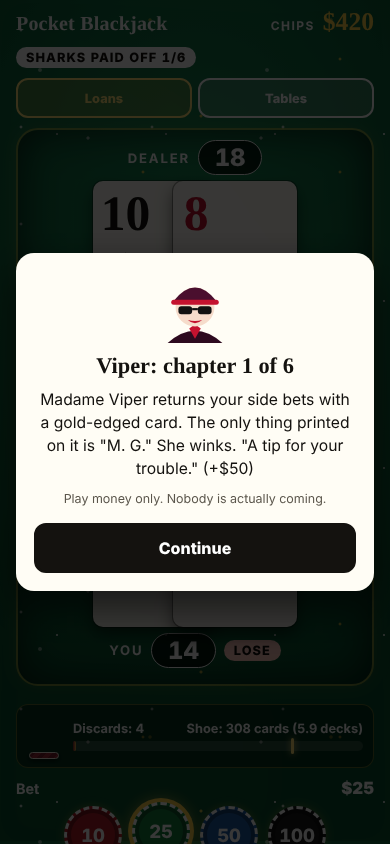
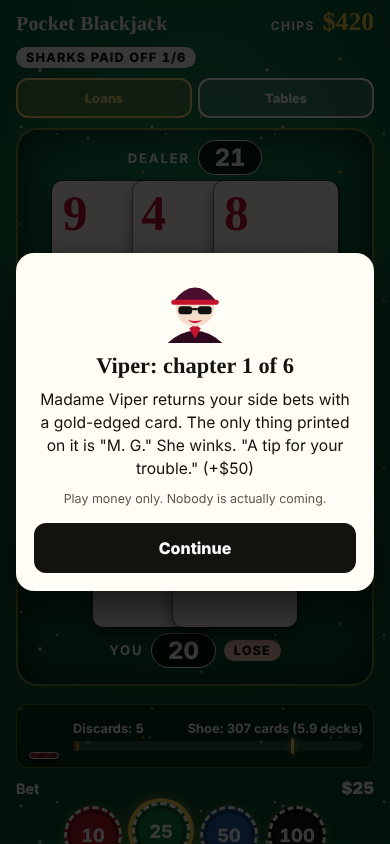
Add Shark's Wheel table: 40-slice wheel with 25x jackpot and double-or-nothing coin flip
Claude-Session: https://claude.ai/code/session_01TBic4fJHueRrgbEwivbnJZ

diff --git a/blackjack.html b/blackjack.html
@@ -292,6 +292,25 @@ body.hr { --felt: #0b0a22; --felt-hi: #25206a; --spk: rgba(255, 210, 74, 0.9); -
 .vdealer, .vpicks { display: flex; flex-direction: column; align-items: center; gap: 4px; color: #fff; }
 .vpicks > div { display: flex; gap: 4px; }
 .vdealer small, .vpicks small { font-size: 0.7rem; font-weight: 800; letter-spacing: 0.06em; color: #ffe27a; text-transform: uppercase; }
+.wheel { display: flex; flex-direction: column; gap: 10px; padding: 12px 16px; overflow: auto; }
+.wtabs { display: flex; gap: 8px; }
+.wtabs button { flex: 1; min-height: 44px; border-radius: 12px; border: 2px solid var(--line); background: rgba(0, 0, 0, 0.3); font-weight: 800; }
+.wtabs button[aria-pressed="true"] { border-color: var(--brass); color: var(--brass); background: rgba(0, 0, 0, 0.5); }
+.wstage { position: relative; width: min(78vw, 300px); aspect-ratio: 1; margin: 14px auto 6px; }
+.wptr { position: absolute; left: 50%; top: -12px; width: 0; height: 0; margin-left: -12px; border-left: 12px solid transparent; border-right: 12px solid transparent; border-top: 26px solid var(--brass); z-index: 3; filter: drop-shadow(0 2px 2px rgba(0, 0, 0, 0.6)); }
+.wdisc { position: absolute; inset: 0; border-radius: 50%; border: 6px solid var(--brass); box-shadow: 0 6px 18px rgba(0, 0, 0, 0.55); transition: transform 4.2s cubic-bezier(0.12, 0.6, 0.12, 1); }
+.whub { position: absolute; left: 50%; top: 50%; width: 22%; height: 22%; transform: translate(-50%, -50%); border-radius: 50%; background: radial-gradient(circle at 35% 30%, #fff3b0, var(--brass) 55%, #9a7410); box-shadow: 0 0 0 3px rgba(0, 0, 0, 0.5); }
+.wcoin { position: absolute; inset: 8%; transform-style: preserve-3d; transition: transform 1.8s cubic-bezier(0.2, 0.7, 0.2, 1); }
+.wcoin[hidden] { display: none; }
+.wface { position: absolute; inset: 0; border-radius: 50%; display: flex; align-items: center; justify-content: center; font-family: var(--display); font-weight: 900; font-size: 1.7rem; backface-visibility: hidden; -webkit-backface-visibility: hidden; border: 6px solid rgba(0, 0, 0, 0.35); }
+.wfront { background: radial-gradient(circle at 35% 30%, #fff3b0, var(--brass) 60%, #9a7410); color: #3a2a00; }
+.wback { background: radial-gradient(circle at 35% 30%, #5a6370, #20252c 70%); color: #f3b0b0; transform: rotateY(180deg); }
+.wheel.flip .wdisc, .wheel.flip .wptr { display: none; }
+.wbig { margin: 0; min-height: 1.6em; text-align: center; font-family: var(--display); font-weight: 900; font-size: 1.5rem; color: var(--brass); }
+.wbig.lose { color: var(--lose); }
+.wpr { display: flex; justify-content: space-between; gap: 8px; font-size: 0.9rem; padding: 2px 0; }
+.wpr i { display: inline-block; width: 12px; height: 12px; border-radius: 3px; margin-right: 8px; vertical-align: -1px; }
+.wpr.hit { color: var(--brass); font-weight: 800; }
 .vpay { display: grid; gap: 1px; padding: 6px 8px; border-radius: 12px; background: rgba(0, 0, 0, 0.35); border: 1px solid rgba(255, 210, 74, 0.45); }
 .vpay div { display: flex; justify-content: space-between; align-items: center; gap: 8px; color: #fff; padding: 3px 6px; border-radius: 6px; }
 .vpay span { display: flex; flex-direction: column; line-height: 1.15; }
@@ -490,6 +509,33 @@ body::before { filter: brightness(var(--dimf, 1)); }
       <p>Stuck? Press <b>Hint</b> any time during step 2 and the game shows the best cards to keep.</p>
     </details>
   </section>
+
+  <section class="wheel" id="wheel" hidden>
+    <div class="dhead"><h2>Shark's Wheel</h2><p class="dsub" id="wSub">Pick a bet, then spin.</p></div>
+    <div class="wtabs" role="group" aria-label="Game">
+      <button type="button" id="wTabWheel" aria-pressed="true">Wheel</button>
+      <button type="button" id="wTabFlip" aria-pressed="false">Double or nothing</button>
+    </div>
+    <div class="wstage" id="wStage">
+      <div class="wptr" aria-hidden="true"></div>
+      <div class="wdisc" id="wDisc" aria-hidden="true"><div class="whub"></div></div>
+      <div class="wcoin" id="wCoin" hidden aria-hidden="true"><div class="wface wfront">YOU</div><div class="wface wback">SHARK</div></div>
+    </div>
+    <p class="wbig" id="wBig" role="status" aria-live="polite"></p>
+    <p class="msg dmsg" id="wMsg"></p>
+    <div class="betline"><span>Bet</span><b id="wWager">$25</b></div>
+    <div class="chips" id="wChips" role="group" aria-label="Bet size"></div>
+    <div class="sides"><button class="sidebtn" id="wAll" type="button">All in</button></div>
+    <button class="primary" id="wGo" type="button">Spin</button>
+    <div class="vpay" id="wPay"></div>
+    <details class="pay">
+      <summary>How the wheel works</summary>
+      <p><b>Wheel:</b> 40 slices. Most are a bust, a few pay 1x to 3x your bet back, and one slice pays 25x. The wheel returns about 95 cents on the dollar over time, so it is a long shot.</p>
+      <p><b>Double or nothing:</b> a coin flip you win 48% of the time. A win pays double your bet. A small edge for the house, and the quickest way to clear a loan or lose it all.</p>
+      <p>Press <b>All in</b> to bet every chip you have. Same chips and same loan sharks as every other table. Interest still ticks on every spin.</p>
+    </details>
+  </section>
+
 
   <section class="controls" id="bjControls">
     <div class="betline"><span id="wlabel">Bet</span><button class="stakesbtn" id="stakesBtn" hidden>Raise stakes</button><b id="wager">$25</b></div>
@@ -976,7 +1022,7 @@ body::before { filter: brightness(var(--dimf, 1)); }
     var wsp = $('wisps'); wsp.style.opacity = room === 'high' || loans < 2 ? '0' : '1';
     Array.prototype.forEach.call(wsp.children, function (w, k) { w.style.display = k < loans ? '' : 'none'; });
     document.body.classList.toggle('hr', room === 'high');
-    $('title').textContent = game === 'derby' ? 'Roach Derby' : game === 'vp' ? 'Jacks or Better' : (room === 'high' ? 'High-Roller Blackjack' : 'Pocket Blackjack');
+    $('title').textContent = game === 'derby' ? 'Roach Derby' : game === 'vp' ? 'Jacks or Better' : game === 'wheel' ? "Shark's Wheel" : (room === 'high' ? 'High-Roller Blackjack' : 'Pocket Blackjack');
   }
 
   function sleep(ms) { return new Promise(function (r) { setTimeout(r, ms); }); }
@@ -1412,12 +1458,107 @@ body::before { filter: brightness(var(--dimf, 1)); }
     return true;
   }
 
+
+  /* ---------- Shark's Wheel ---------- */
+  var WSL = 40, WSLICE = (function () {
+    var a = []; for (var q = 0; q < WSL; q++) a.push(0);
+    a[0] = 25; a[20] = 3; [7, 19, 33].forEach(function (x) { a[x] = 2; }); [4, 12, 27, 36].forEach(function (x) { a[x] = 1; });
+    return a;
+  })();
+  var WCOL = { 0: ['#4a1620', '#2f0d14'], 1: ['#2c6fbf'], 2: ['#23a05a'], 3: ['#e0a21a'], 25: ['#b04ae0'] };
+  var WNAME = { 0: 'Bust', 1: 'Bet back', 2: 'Double', 3: 'Triple', 25: 'JACKPOT' };
+  var FLIP_P = 0.48;
+  var wheel = { mode: 'wheel', busy: false, rot: 0, crot: 0, msg: '', cls: '', big: '', bigCls: '', sig: '', built: false, hit: -1 };
+  function wheelBuild() {
+    var stops = [], k, c;
+    for (k = 0; k < WSL; k++) { c = WCOL[WSLICE[k]]; c = c[k % c.length]; stops.push(c + ' ' + (k * 360 / WSL) + 'deg ' + ((k + 1) * 360 / WSL) + 'deg'); }
+    $('wDisc').style.background = 'conic-gradient(' + stops.join(',') + ')';
+    var pay = $('wPay'), cnt = {};
+    WSLICE.forEach(function (m) { cnt[m] = (cnt[m] || 0) + 1; });
+    pay.textContent = '';
+    [25, 3, 2, 1, 0].forEach(function (m) {
+      var d = document.createElement('div'); d.className = 'wpr'; d.dataset.m = String(m);
+      var l = document.createElement('span'), r = document.createElement('b'), sw = document.createElement('i');
+      sw.style.background = WCOL[m][0]; l.appendChild(sw); l.appendChild(document.createTextNode(WNAME[m] + (m ? ' (' + m + 'x)' : '')));
+      r.textContent = cnt[m] + ' of ' + WSL + ' (' + (cnt[m] * 100 / WSL).toFixed(1).replace('.0', '') + '%)';
+      d.appendChild(l); d.appendChild(r); pay.appendChild(d);
+    });
+    wheel.built = true;
+  }
+  function renderWheel() {
+    if (!wheel.built) wheelBuild();
+    var flip = wheel.mode === 'flip', betting = (phase === 'bet' || phase === 'done') && !wheel.busy;
+    $('wheel').classList.toggle('flip', flip);
+    $('wDisc').hidden = flip; $('wCoin').hidden = !flip;
+    $('wTabWheel').setAttribute('aria-pressed', String(!flip)); $('wTabFlip').setAttribute('aria-pressed', String(flip));
+    $('wTabWheel').disabled = !betting; $('wTabFlip').disabled = !betting;
+    $('wPay').hidden = flip;
+    $('wSub').textContent = wheel.busy ? (flip ? 'Flipping…' : 'Spinning…') : (flip ? 'Double your bet 48% of the time, or lose it.' : 'Pick a bet, then spin. One slice pays 25x.');
+    $('wBig').textContent = wheel.big; $('wBig').className = 'wbig' + (wheel.bigCls ? ' ' + wheel.bigCls : '');
+    var m = $('wMsg'); m.textContent = wheel.msg; m.className = 'msg dmsg' + (wheel.cls ? ' ' + wheel.cls : '');
+    $('wWager').textContent = '$' + bet;
+    var box = $('wChips'), sg = CHIPS.join(',');
+    if (wheel.sig !== sg) {
+      wheel.sig = sg; box.textContent = '';
+      CHIPS.slice().reverse().forEach(function (v) {
+        var b = document.createElement('button'); b.type = 'button'; b.className = 'chip'; b.dataset.v = String(v); b.textContent = v >= 1000 ? (v / 1000) + 'K' : String(v);
+        b.addEventListener('click', function () { if (wheel.busy || (phase !== 'bet' && phase !== 'done')) return; bet = v; render(); });
+        box.appendChild(b);
+      });
+    }
+    Array.prototype.forEach.call(box.children, function (b) { var v = parseInt(b.dataset.v, 10); b.disabled = !betting || v > bank; b.setAttribute('aria-pressed', String(v === bet)); });
+    $('wAll').disabled = !betting || bank < MIN; $('wAll').textContent = 'All in: $' + bank;
+    var go = $('wGo'); go.disabled = !betting || bank < bet || bank < MIN;
+    go.textContent = wheel.busy ? (flip ? 'Flipping…' : 'Spinning…') : (flip ? 'Flip for $' + bet : 'Spin for $' + bet);
+    Array.prototype.forEach.call($('wPay').children, function (r) { r.className = 'wpr' + (wheel.hit === parseInt(r.dataset.m, 10) ? ' hit' : ''); });
+  }
+  async function wheelGo() {
+    if (wheel.busy || (phase !== 'bet' && phase !== 'done') || bank < bet || bank < MIN || bet < MIN) return;
+    if (checkStakes()) return;
+    var flip = wheel.mode === 'flip', stake = bet, i, mult, won;
+    wheel.busy = true; phase = 'busy'; wheel.hit = -1; wheel.big = ''; wheel.bigCls = '';
+    bank -= stake; save();
+    var notes = tickDebts(); blindNext = false; save();
+    wheel.msg = notes.length ? notes.join(' \u00b7 ') : ''; wheel.cls = '';
+    render();
+    if (flip) {
+      won = Math.random() < FLIP_P; mult = won ? 2 : 0;
+      wheel.crot = (Math.floor(wheel.crot / 360) + 5) * 360 + (won ? 0 : 180);
+      var coin = $('wCoin'); coin.style.transform = 'rotateY(' + wheel.crot + 'deg)';
+      await sleep(2000);
+    } else {
+      i = Math.floor(Math.random() * WSL); mult = WSLICE[i];
+      var centre = i * 360 / WSL + 360 / WSL / 2, jit = (Math.random() - 0.5) * (360 / WSL) * 0.6;
+      wheel.rot = (Math.floor(wheel.rot / 360) + 6) * 360 + (360 - centre) + jit;
+      $('wDisc').style.transform = 'rotate(' + wheel.rot + 'deg)';
+      await sleep(4500);
+    }
+    var back = stake * mult, net = back - stake;
+    bank += back; wheel.hit = flip ? -1 : mult; wheel.busy = false; phase = 'done';
+    if (mult === 25) { wheel.big = 'JACKPOT! +$' + net; wheel.bigCls = ''; }
+    else if (mult === 0) { wheel.big = flip ? 'The shark wins.' : 'Bust.'; wheel.bigCls = 'lose'; }
+    else if (mult === 1) { wheel.big = 'Bet back.'; }
+    else { wheel.big = (flip ? 'You win +$' : mult + 'x! +$') + net; }
+    wheel.msg = (wheel.msg ? wheel.msg + ' \u00b7 ' : '') + (net > 0 ? 'Won $' + net + '.' : net < 0 ? 'Lost $' + stake + '.' : 'Even.');
+    wheel.cls = net > 0 ? 'win' : net < 0 ? 'lose' : '';
+    if (bet > bank) bet = bank >= MIN ? CHIPS.filter(function (v) { return v <= bank; })[0] || MIN : bet;
+    save(); render();
+    afterHand(function () { if (!checkStakes()) checkSal(); });
+  }
+  function wheelWire() {
+    $('wGo').addEventListener('click', wheelGo);
+    $('wAll').addEventListener('click', function () { if (wheel.busy || (phase !== 'bet' && phase !== 'done')) return; bet = bank; render(); });
+    $('wTabWheel').addEventListener('click', function () { if (wheel.busy) return; wheel.mode = 'wheel'; wheel.big = ''; wheel.msg = ''; render(); });
+    $('wTabFlip').addEventListener('click', function () { if (wheel.busy) return; wheel.mode = 'flip'; wheel.big = ''; wheel.msg = ''; render(); });
+  }
+
   /* ---------- Switching tables ---------- */
   function setGame(g) {
     if (g === game) return;
     game = g;
     if (g === 'derby') { if (CHIPS.indexOf(bet) < 0 || bet > bank) bet = bestChip(); newRace(); }
-    if (g === 'vp') { if (CHIPS.indexOf(bet) < 0 || bet > bank) bet = bestChip(); }
+    if (g === 'vp' || g === 'wheel') { if (CHIPS.indexOf(bet) < 0 || bet > bank) bet = bestChip(); }
+    if (g === 'bj' && bet > maxBet()) bet = bestChip();
     render();
     if (bank < MIN) checkSal();
   }
@@ -1425,7 +1566,7 @@ body::before { filter: brightness(var(--dimf, 1)); }
     SHARKS.forEach(function (sh) { S[sh.id] = { debt: 0, held: 0, due: 0, hidden: false, bounty: 0 }; });
     wanted = 0; blindNext = false; blind = false; interestMsg = ''; insBet = 0; susp = 0; backoff = 0; deck = []; updateGlow();
     if (full) { unlocked = false; cleared = {}; stakesUnlocked = false; STORY = { mid: {}, paid: {} }; storyQ = []; saveStats(); }
-    room = 'low'; game = 'bj'; derby.phase = 'bet'; derby.pick = -1; derby.prop = 0; vp.phase = 'bet'; vp.cards = []; vp.hidden = [1, 1, 1, 1, 1]; vp.win = 0; vp.dbl = null; vp.result = '';
+    room = 'low'; game = 'bj'; derby.phase = 'bet'; derby.pick = -1; derby.prop = 0; wheel.busy = false; wheel.mode = 'wheel'; wheel.msg = ''; wheel.big = ''; vp.phase = 'bet'; vp.cards = []; vp.hidden = [1, 1, 1, 1, 1]; vp.win = 0; vp.dbl = null; vp.result = '';
     clearInterval(derby.timer); derby.timer = null; rnd = Math.random;
     resetStack();
   }
@@ -1441,6 +1582,7 @@ body::before { filter: brightness(var(--dimf, 1)); }
       { label: 'Blackjack' + (game === 'bj' ? ' (here)' : ''), sub: 'Splits, side bets, loan sharks', go: false, disabled: game === 'bj', fn: function () { setGame('bj'); } },
       { label: 'Back Alley Roach Derby' + (game === 'derby' ? ' (here)' : ''), sub: room === 'high' ? 'Back alley only. Head downstairs first.' : 'Bet on bugs. Boots may fall.', go: false, disabled: game === 'derby' || room === 'high', fn: function () { setGame('derby'); } },
       { label: 'Jacks or Better' + (game === 'vp' ? ' (here)' : ''), sub: 'Video poker. Hold, draw, get paid.', go: false, disabled: game === 'vp', fn: function () { setGame('vp'); } },
+      { label: "Shark's Wheel" + (game === 'wheel' ? ' (here)' : ''), sub: 'Spin for a 25x jackpot or flip double or nothing', go: false, disabled: game === 'wheel', fn: function () { setGame('wheel'); } },
       { label: 'Restart game…', sub: 'Start over with a fresh stack', go: false, fn: restartMenu },
       { label: 'Close', go: false, fn: function () {} }
     ];
@@ -1448,13 +1590,14 @@ body::before { filter: brightness(var(--dimf, 1)); }
   }
   function renderTables() {
     var d = game === 'derby', betting = phase === 'bet' || phase === 'done';
-    $('bjTable').hidden = game !== 'bj'; $('tray').hidden = game !== 'bj'; $('bjControls').hidden = game !== 'bj'; $('derby').hidden = !d; $('vp').hidden = game !== 'vp';
-    el.stakesBtn.hidden = !(stakesUnlocked && room === 'low' && !d && betting);
+    $('bjTable').hidden = game !== 'bj'; $('tray').hidden = game !== 'bj'; $('bjControls').hidden = game !== 'bj'; $('derby').hidden = !d; $('vp').hidden = game !== 'vp'; $('wheel').hidden = game !== 'wheel';
+    el.stakesBtn.hidden = !(stakesUnlocked && room === 'low' && !d && game !== 'wheel' && betting);
     el.stakesBtn.textContent = stakes ? 'Lower stakes' : 'Raise stakes';
     el.stakesBtn2.hidden = !(stakesUnlocked && room === 'low' && d && derby.phase !== 'run');
     el.stakesBtn2.textContent = stakes ? 'Lower stakes' : 'Raise stakes';
     if (d) renderDerby();
     if (game === 'vp') renderVp();
+    if (game === 'wheel') renderWheel();
   }
 
   /* ---------- Back Alley Roach Derby ---------- */
@@ -2050,7 +2193,7 @@ body::before { filter: brightness(var(--dimf, 1)); }
     render();
   }
 
-  applySkin();
+  applySkin(); wheelWire();
   $('skinBtn').addEventListener('click', function () { skin = (skin + 1) % SKINS.length; applySkin(); });
   $('dustBtn').addEventListener('click', function () { dustOn = !dustOn; saveStats(); updateGlow(); render(); });
   $('coachBet').addEventListener('click', function () { setBet(coachBetAdvice().amt); });
